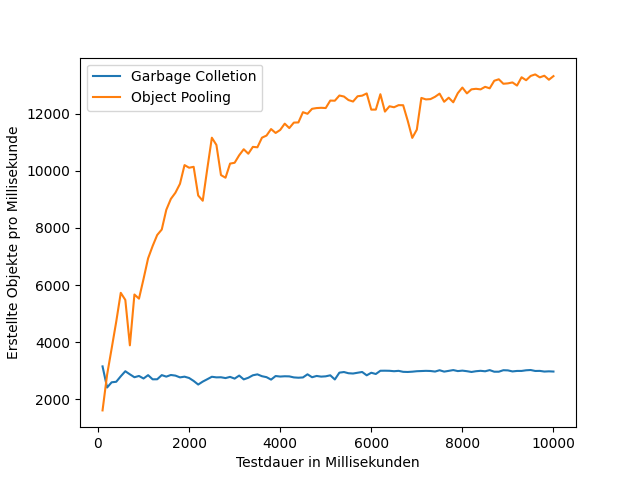
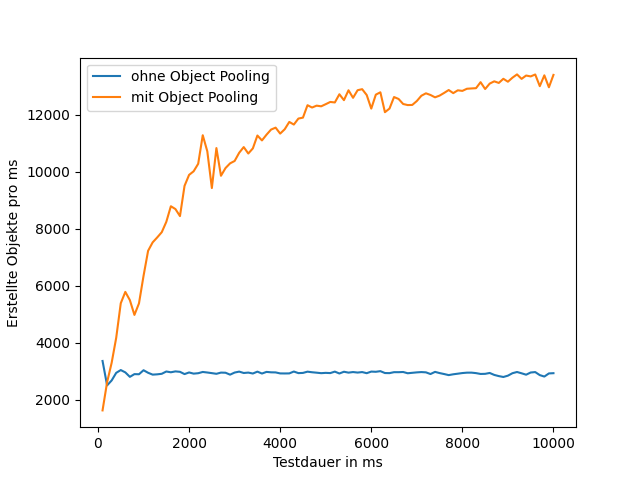
add additional metrics

diff --git a/garbage-collection/parse-and-plot-json.py b/garbage-collection/parse-and-plot-json.py
@@ -1,18 +1,29 @@
 import json
 import matplotlib.pyplot as plt 
-
+from collections import defaultdict
 
 def plot(parsed_gc_data, parsed_op_data):
 	times = (list(parsed_gc_data.keys()))
 	times.sort()
 	creationPerMsGC = [parsed_gc_data[key]['createdPerMs'] for key in times ]
 	creationPerMsOP = [parsed_op_data[key]['createdPerMs'] for key in times ]
+	gc_breakdown_dict = defaultdict(float)
+	for key in times:
+		bd = parsed_gc_data[key]['gc']['breakdown']
+		for k in bd.keys():
+			gc_breakdown_dict[k] += float(bd[k])
+	op_breakdown_dict = defaultdict(float)
+	for key in times:
+		bd = parsed_op_data[key]['gc']['breakdown']
+		for k in bd.keys():
+			op_breakdown_dict[k] += float(bd[k])
+
 	# Export creation per ms plot
 	plt.figure()
-	plt.plot(times, creationPerMsGC, label='Garbage Colletion')
-	plt.plot(times, creationPerMsOP, label='Object Pooling')
-	plt.xlabel('Testdauer in Millisekunden')
-	plt.ylabel('Erstellte Objekte pro Millisekunde')
+	plt.plot(times, creationPerMsGC, label='ohne Object Pooling')
+	plt.plot(times, creationPerMsOP, label='mit Object Pooling')
+	plt.xlabel('Testdauer in ms')
+	plt.ylabel('Erstellte Objekte pro ms')
 	plt.legend()
 	plt.savefig(f'exports/compare_creation_per_ms')
 	plt.close()
@@ -23,8 +34,8 @@ def plot(parsed_gc_data, parsed_op_data):
 	bars = plt.bar([0,1],[gc_gc_sum, op_gc_sum])
 	bars[0].set_color('#1f77b4')
 	bars[1].set_color('#ff7f0e')
-	plt.xticks([0,1], ['Garbage collection', 'Object Pooling'])
-	plt.ylabel('Garbage-Collection Dauer in Sekunden')
+	plt.xticks([0,1], ['Ohne Object Pooling', 'Mit Object Pooling'])
+	plt.ylabel('Garbage-Collection Dauer in s')
 	plt.savefig('exports/compare_time_spent_with_gc')
 	# Export total objects created
 	plt.figure()
@@ -33,9 +44,19 @@ def plot(parsed_gc_data, parsed_op_data):
 	bars = plt.bar([0,1],[gc_createdObjects_sum, op_createdObjects_sum])
 	bars[0].set_color('#1f77b4')
 	bars[1].set_color('#ff7f0e')
-	plt.xticks([0,1], ['Garbage collection', 'Object Pooling'])
+	plt.xticks([0,1], ['ohne Object Pooling', 'mit Object Pooling'])
 	plt.ylabel('Summe an erstellten Objekten (in Millionen)')
 	plt.savefig('exports/compare_objects_created_total')
+	# Export gc distribution gc
+	plt.figure()
+	plt.title('Zeit pro Garbage Collection Algorithmus in s (ohne Object Pooling)')
+	plt.pie(gc_breakdown_dict.values(), labels=gc_breakdown_dict.keys(), autopct=lambda p : '{:.2f}%  ({:,.0f})'.format(p/1000,p * sum(gc_breakdown_dict.values())/100))
+	plt.savefig('exports/gc_gc_breakdown')
+	# Export gc distribution op 
+	plt.figure()
+	plt.title('Zeit pro Garbage Collection Algorithmus in s (mit Object Pooling)')
+	plt.pie(op_breakdown_dict.values(), labels=op_breakdown_dict.keys(), autopct=lambda p : '{:.2f}%  ({:,.0f})'.format(p/1000,p * sum(op_breakdown_dict.values())/100))
+	plt.savefig('exports/op_gc_breakdown')
 
 
 
@@ -43,15 +64,27 @@ def plot(parsed_gc_data, parsed_op_data):
 
 
 def parse(data,data_type):
+	key = 100 
 	parseData = {}
 	for entry in data:
-		key = (entry['duration']//100)*100
 		with open(f'raw_logs/{data_type}_{key}') as f:
+			gc_times = []
+			gc_breakdown = defaultdict(float)
+			lines = f.readlines()
+			for line in lines:
+				line = line.replace('\n', '')
+				if line != 'Compact':
+					dur, gc_type = line.split(';')
+					gc_times.append(float(dur))
+					if gc_type == "Mark":
+						gc_type += "Compact"
+					gc_breakdown[gc_type] += float(dur)
 			entry['gc'] = {}
-			gc_times= list(map(float,f.read().replace('\n', '').split(',')))
 			entry['gc']['avg'] = sum(gc_times)/len(gc_times)
 			entry['gc']['sum'] = sum(gc_times)
+			entry['gc']['breakdown'] = gc_breakdown
 		parseData[key] = entry
+		key+=100
 	return parseData
 
 
